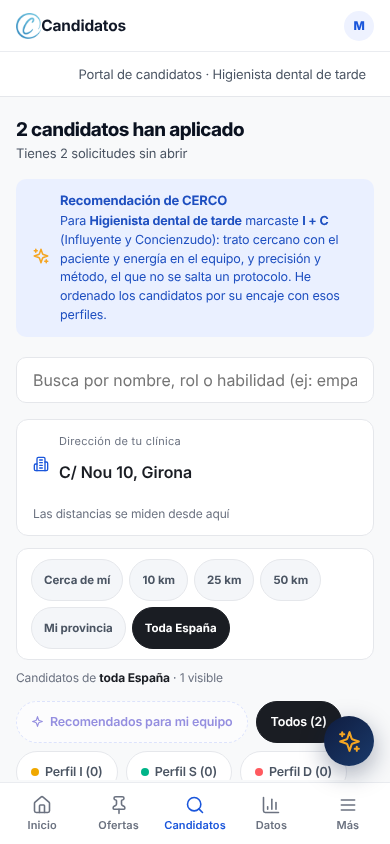
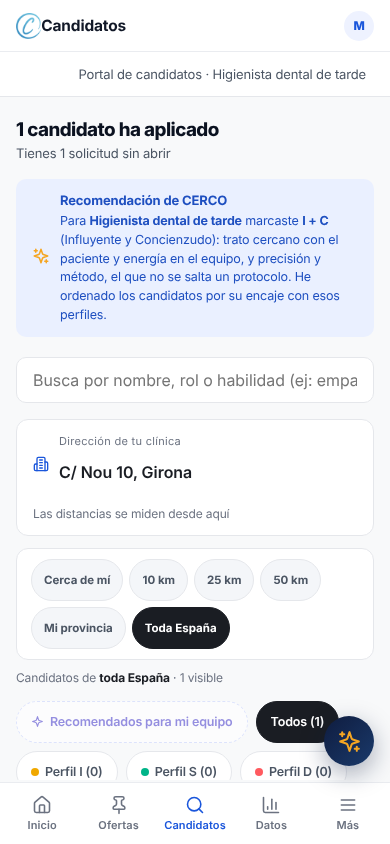
Arreglo: una persona que solicita dos ofertas ya no se cuenta dos veces
- Dentro de una oferta, la cabecera de Candidatos («N candidatos han aplicado»,
  «N solicitudes sin abrir») y los filtros por perfil cuentan solo esa oferta.
- En la vista general y en «Candidatos totales» se cuentan personas, no
  solicitudes.

Claude-Session: https://claude.ai/code/session_01L5qSpH5ECCjMh1xfSpjWDJ

Changed region(s): [[0.0308, 0.1232, 0.6154, 0.1848], [0.8, 0.8318, 0.8923, 0.8626]]

diff --git a/index.html b/index.html
@@ -10391,6 +10391,16 @@ h2, h3{ letter-spacing:-0.02em; font-weight:700; }
   function lista(){ try{ var l = JSON.parse(localStorage.getItem(KCAND) || '[]'); return Array.isArray(l) ? l : []; }catch(x){ return []; } }
   function guardarLista(l){ try{ localStorage.setItem(KCAND, JSON.stringify(l)); }catch(x){} }
   function activas(){ return lista().filter(function(c){ return c.estado !== 'retirada'; }); }
+  // Una persona que solicita dos ofertas es una sola persona: se cuenta una vez
+  function unaPorPersona(l){
+    var vistas = {};
+    return l.filter(function(c){ var k = c.candidatoUid || c.email || c.id; if(vistas[k]) return false; vistas[k] = 1; return true; });
+  }
+  // Lo que se ve en Candidatos: las solicitudes de la oferta abierta o, si no hay, todas
+  function activasEnVista(){
+    var o = (typeof ofertaEnPortal !== 'undefined') ? ofertaEnPortal : null;
+    return activas().filter(function(c){ return !o || String(c.ofertaId) === String(o.id); });
+  }
   function buscar(id){ var l = lista(); for(var i=0;i<l.length;i++) if(l[i].id === id) return l[i]; return null; }
   window.CERCO_candidaturas = lista;
 
@@ -10398,7 +10408,7 @@ h2, h3{ letter-spacing:-0.02em; font-weight:700; }
   var _recibOrig = CDB.candidatosRecibidos;
   CDB.candidatosRecibidos = function(){
     if(this.demo && this.demo()) return _recibOrig.call(this);
-    return activas().length;
+    return unaPorPersona(activas()).length;
   };
 
   function perfilesOferta(o){
@@ -10642,7 +10652,7 @@ h2, h3{ letter-spacing:-0.02em; font-weight:700; }
     [scr.querySelector('.location-bar-left')]
       .forEach(function(el){ if(!el) return; if(hay) el.style.setProperty('display','none','important'); else el.style.removeProperty('display'); });
     var n = {T:0, D:0, I:0, S:0, C:0};
-    activas().forEach(function(c){ n.T++; if(c.disc && n[c.disc.dom] !== undefined) n[c.disc.dom]++; });
+    unaPorPersona(activasEnVista()).forEach(function(c){ n.T++; if(c.disc && n[c.disc.dom] !== undefined) n[c.disc.dom]++; });
     scr.querySelectorAll('.filters-row .filter-chip:not(.orden-chip)').forEach(function(ch){
       if(!ch.dataset.orig) ch.dataset.orig = ch.innerHTML;
       var t = ch.dataset.orig.replace(/<[^>]+>/g,'');
@@ -10670,8 +10680,9 @@ h2, h3{ letter-spacing:-0.02em; font-weight:700; }
     try{ _renderPortalOrig && _renderPortalOrig(); }catch(x){}
     var enDemo = false; try{ enDemo = CDB.demo(); }catch(x){}
     if(!enDemo){
-      var n = activas().length, h1 = document.getElementById('portal-h1'), sub = document.getElementById('portal-sub');
-      var nuevas = activas().filter(function(c){ return c.estado === 'enviada'; }).length;
+      var vis = activasEnVista();
+      var n = unaPorPersona(vis).length, h1 = document.getElementById('portal-h1'), sub = document.getElementById('portal-sub');
+      var nuevas = vis.filter(function(c){ return c.estado === 'enviada'; }).length;
       if(n && h1) h1.textContent = n + (n === 1 ? ' candidato ha aplicado' : ' candidatos han aplicado');
       if(n && sub) sub.textContent = nuevas ? (nuevas === 1 ? 'Tienes 1 solicitud sin abrir' : 'Tienes ' + nuevas + ' solicitudes sin abrir') : 'Ordenados por encaje con el perfil que pide cada oferta';
     }

diff --git a/pruebas/e2e/10-recorrido.spec.js b/pruebas/e2e/10-recorrido.spec.js
@@ -236,9 +236,12 @@ test('5. La clínica ve la solicitud, la ficha grande, me interesa, entrevista y
   await page.evaluate(() => showScreen('ofertes'));
   await expect(page.locator('#screen-ofertes')).toContainText(/\b1 candidato\b/);
   await expect(page.locator('#screen-ofertes')).not.toContainText('1 candidatos');
+  await expect(page.locator('#screen-ofertes')).toContainText(/1\s*Candidatos totales/);
   await capturar(page, 'clinica-11-ofertas-con-solicitudes');
   await page.locator('#screen-ofertes').getByRole('button', { name: 'Ver candidatos' }).first().click();
-  await seVe(page, 'Tienes 2 solicitudes sin abrir');
+  // Laura ha solicitado las dos ofertas: es una sola persona, y en esta oferta solo hay una solicitud
+  await seVe(page, '1 candidato ha aplicado');
+  await seVe(page, 'Tienes 1 solicitud sin abrir');
   await seVe(page, 'Higienistas'); // agrupados por profesión
   await capturar(page, 'clinica-12-candidatos');
 
